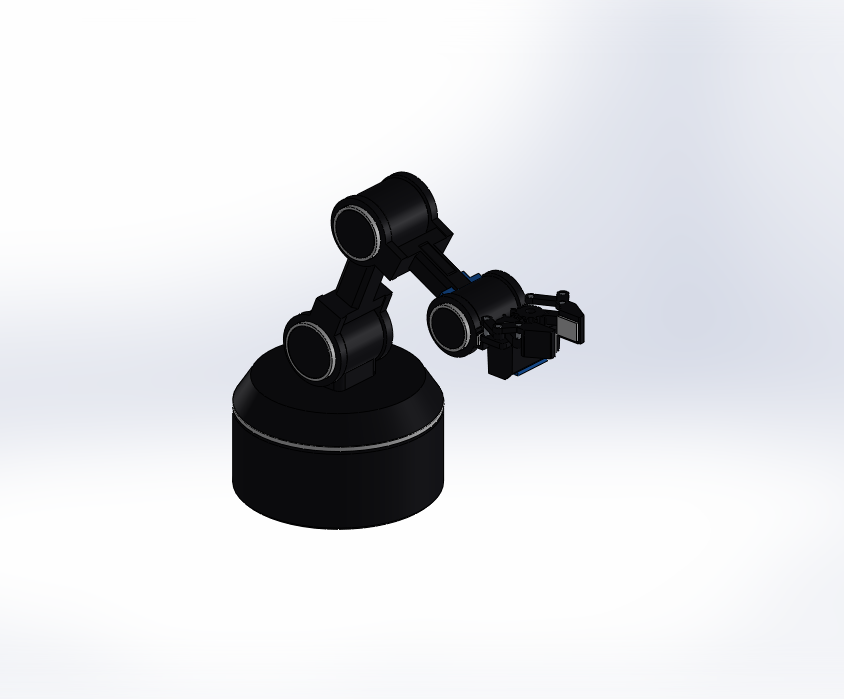
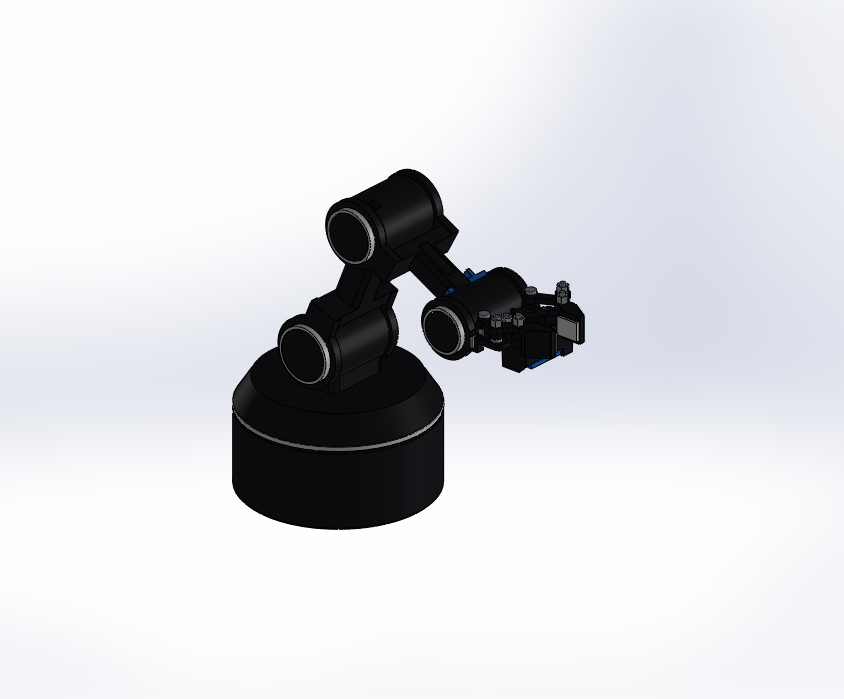
Sync SolidWorks 2025 articulated assembly capture and interactive viewer hardware metadata

diff --git a/cad/visor_cad_interactivo.py b/cad/visor_cad_interactivo.py
@@ -93,14 +93,24 @@ HW_META = {
     "hw_servo_04.stl": (5, (0.18, 0.56, 0.88), "Microservo SG90 Pinza MeArm Mod 1.5", (86, 0, 44)),
     "hw_elec_00.stl":  (1, (0.12, 0.56, 0.30), "Módulo USB-C PD AR5515 (fijado 5V)", (-22, 0, 0)),
     "hw_elec_01.stl":  (1, (0.10, 0.46, 0.24), "Bornera 5V del módulo AR5515", (-22, 0, 0)),
-    "hw_elec_02.stl":  (1, (0.12, 0.56, 0.30), "Driver PWM 16-ch PCA9685 (AR0389, VCC a 3V3)", (0, 0, -52)),
-    "hw_elec_03.stl":  (1, (0.10, 0.46, 0.28), "Seeed Studio XIAO ESP32-S3", (0, 0, -52)),
-    "hw_elec_04.stl":  (1, (0.14, 0.34, 0.54), "Capacitor Electrolítico 1000 µF 16V (AR1127)", (0, 0, -52)),
+    "hw_elec_02.stl":  (1, (0.12, 0.56, 0.30), "Driver PWM 16-ch PCA9685 (AR0389, VCC a 3V3)", (0, 0, -34)),
+    "hw_elec_03.stl":  (1, (0.10, 0.46, 0.28), "Seeed Studio XIAO ESP32-S3", (0, 0, -34)),
+    "hw_elec_04.stl":  (1, (0.14, 0.34, 0.54), "Capacitor Electrolítico 1000 µF 16V (AR1127)", (0, 0, -34)),
     "hw_steel_00.stl": (1, (0.74, 0.76, 0.80), "Puerto USB-C AR5515", (-22, 0, 0)),
     "hw_steel_01.stl": (1, (0.28, 0.28, 0.32), "Interruptor KCD11-2P con terminales faston (19 mm)", (-22, 0, 0)),
     "hw_steel_02.stl": (1, (0.22, 0.22, 0.25), "Bisel trasero KCD11-2P", (-22, 0, 0)),
-    "hw_steel_03.stl": (1, (0.58, 0.62, 0.70), "Envolvente conectores Dupont enchufados PCA9685 (23 mm)", (0, 0, -52)),
-    "hw_steel_04.stl": (1, (0.76, 0.78, 0.82), "Puerto USB-C XIAO ESP32-S3", (0, 0, -52)),
+    **{f"hw_steel_{i:02d}.stl": (1, (0.58, 0.60, 0.64), "Disco lastre acero bóveda base (6× = 217.7 g)", (0, 0, -56)) for i in range(3, 9)},
+    **{f"hw_steel_{i:02d}.stl": (1, (0.78, 0.80, 0.84), "Tornillo M3×16 / Tuerca hex M3 cierre base", (0, 0, -56 if i % 2 == 1 else 0)) for i in range(9, 17)},
+    **{f"hw_steel_{i:02d}.stl": (1, (0.78, 0.80, 0.84), "Tornillo M3×4 ciego PCA9685 (1.05 mm aislante)", (0, 0, -34)) for i in range(17, 21)},
+    "hw_steel_21.stl": (1, (0.88, 0.74, 0.26), "Envolvente conectores Dupont enchufados PCA9685 (23 mm)", (0, 0, -34)),
+    "hw_steel_22.stl": (1, (0.76, 0.78, 0.82), "Puerto USB-C XIAO ESP32-S3", (0, 0, -34)),
+    **{f"hw_steel_{i:02d}.stl": (1, (0.82, 0.84, 0.88), "Tornillo M3×8 avellanado retén axial J1 (+0.65 mm libre)", (0, 0, -16)) for i in range(23, 26)},
+    "hw_steel_26.stl": (2, (0.80, 0.82, 0.86), "Tornillo M3×12 pivote pasivo J2", (0, -24, 48)),
+    "hw_steel_27.stl": (2, (0.80, 0.82, 0.86), "Tuerca M3 Nyloc cautiva tras mamparo J2", (0, -14, 48)),
+    "hw_steel_28.stl": (3, (0.80, 0.82, 0.86), "Tornillo M3×12 pivote pasivo J3", (16, -24, 74)),
+    "hw_steel_29.stl": (3, (0.80, 0.82, 0.86), "Tuerca M3 Nyloc cautiva tras mamparo J3", (16, -14, 74)),
+    "hw_steel_30.stl": (4, (0.80, 0.82, 0.86), "Tornillo M3×12 pivote pasivo J4", (50, -24, 62)),
+    "hw_steel_31.stl": (4, (0.80, 0.82, 0.86), "Tuerca M3 Nyloc cautiva tras mamparo J4", (50, -14, 62)),
 }
 
 SUBASSY_NAMES = {
